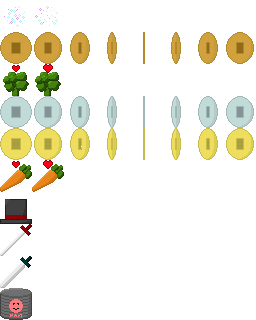
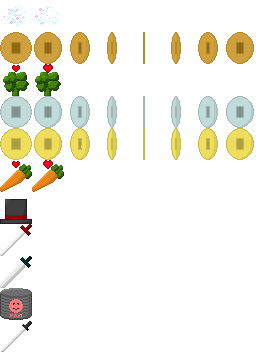
Swords in stones. Still needs refinement, but you get the idea. Fixes issue 9.

diff --git a/lib/mid/env.c b/lib/mid/env.c
@@ -1,6 +1,7 @@
 // Copyright © 2011 Steve McCoy and Ethan Burns
 // Licensed under the MIT License. See LICENSE for details.
 #include "../../include/mid.h"
+#include "../../include/rng.h"
 #include <assert.h>
 
 typedef struct EnvOps EnvOps;
@@ -13,6 +14,13 @@ struct EnvOps{
 
 static void shremptyact(Env*,Player*,Zone*);
 static void shrusedact(Env*,Player*,Zone*);
+static void stonehpact(Env*,Player*,Zone*);
+static void stonedexact(Env*,Player*,Zone*);
+static void stonestract(Env*,Player*,Zone*);
+
+static void stonegenact(Env *e, Player *p, Zone *z, int stat, ItemID *drops, int dsz);
+
+static Rng rng;
 
 static EnvOps ops[] = {
 	[EnvShrempty] = {
@@ -27,6 +35,24 @@ static EnvOps ops[] = {
 		{ 32, 64 },
 		{ .row = 1, .len = 1, .delay = 1, .w = 32, .h = 64, .d = 1 }
 	},
+	[EnvSwdStoneHp] = {
+		"img/swstones.png",
+		stonehpact,
+		{ 32, 32 },
+		{ .row = 0, .len = 1, .delay = 1, .w = 32, .h = 32, .d = 1 }
+	},
+	[EnvSwdStoneDex] = {
+		"img/swstones.png",
+		stonedexact,
+		{ 32, 32 },
+		{ .row = 1, .len = 1, .delay = 1, .w = 32, .h = 32, .d = 1 }
+	},
+	[EnvSwdStoneStr] = {
+		"img/swstones.png",
+		stonestract,
+		{ 32, 32 },
+		{ .row = 2, .len = 1, .delay = 1, .w = 32, .h = 32, .d = 1 }
+	},
 };
 
 _Bool envinit(Env *e, EnvID id, Point p){
@@ -36,6 +62,8 @@ _Bool envinit(Env *e, EnvID id, Point p){
 	bodyinit(&e->body, p.x * Twidth, p.y * Theight, Twidth, Theight);
 	e->body.bbox.b.x = e->body.bbox.a.x + ops[id].wh.x;
 	e->body.bbox.b.y = e->body.bbox.a.y + ops[id].wh.y;
+
+	e->min = rngintincl(&rng, 5, 30);
 
 	return 1;
 }
@@ -50,15 +78,16 @@ _Bool envldresrc(void){
 			return 0;
 		ops[id].anim.sheet = i;
 	}
+	rnginit(&rng, 666);
 	return 1;
 }
 
 _Bool envprint(char *buf, size_t sz, Env *env){
-	return printgeom(buf, sz, "dyb", env->id, env->body, env->gotit);
+	return printgeom(buf, sz, "dybd", env->id, env->body, env->gotit, env->min);
 }
 
 _Bool envscan(char *buf, Env *env){
-	return scangeom(buf, "dyb", &env->id, &env->body, &env->gotit);
+	return scangeom(buf, "dybd", &env->id, &env->body, &env->gotit, &env->min);
 }
 
 Point envsize(EnvID id){
@@ -89,4 +118,43 @@ static void shremptyact(Env *e, Player *p, Zone *z){
 
 static void shrusedact(Env *e, Player *p, Zone *z){
 	// nothing
+}
+
+static void stonehpact(Env *e, Player *p, Zone *z){
+	static ItemID hpswds[] = {
+		ItemSilverSwd,
+	};
+
+	stonegenact(e, p, z, StatHp, hpswds, sizeof(hpswds)/sizeof(hpswds[0]));
+}
+
+static void stonedexact(Env *e, Player *p, Zone *z){
+	static ItemID dexswds[] = {
+		ItemWindSwd,
+	};
+
+	stonegenact(e, p, z, StatDex, dexswds, sizeof(dexswds)/sizeof(dexswds[0]));
+}
+
+static void stonestract(Env *e, Player *p, Zone *z){
+	static ItemID strswds[] = {
+		ItemSilverSwd,
+	};
+
+	stonegenact(e, p, z, StatStr, strswds, sizeof(strswds)/sizeof(strswds[0]));
+}
+
+static void stonegenact(Env *e, Player *p, Zone *z, int stat, ItemID *drops, int dsz){
+	if(p->stats[stat] >= e->min && isect(e->body.bbox, p->body.bbox)){
+		ItemID id = drops[rngintincl(&rng, 0, dsz - 1)];
+		Item drop = {};
+		Point gridcoord = { // BARF
+			e->body.bbox.a.x / Twidth,
+			e->body.bbox.a.y / Theight
+		};
+		iteminit(&drop, id, gridcoord);
+		drop.body.vel.y = -8;
+		if(zoneadditem(z, z->lvl->z, drop))
+			*e = (Env){};
+	}
 }

diff --git a/cmd/mid/zone.c b/cmd/mid/zone.c
@@ -149,6 +149,9 @@ static FILE *zpipe(Rng *r)
 	pipeadd(&p, "itmgen", "-s %u 3 3 3 3 6 10", rngint(r));
 	pipeadd(&p, "itmgen", "-s %u 7 10", rngint(r));
 	pipeadd(&p, "envgen", "-s %u 1 1", rngint(r));
+	pipeadd(&p, "envgen", "-s %u 3 1", rngint(r));
+	pipeadd(&p, "envgen", "-s %u 4 1", rngint(r));
+	pipeadd(&p, "envgen", "-s %u 5 1", rngint(r));
 	pipeadd(&p, "enmgen", "-s %u 1 1 1 2 2 2 2 3 3 4 5 50", rngint(r));
 
 	char adc[256];

diff --git a/include/mid.h b/include/mid.h
@@ -406,6 +406,7 @@ enum ItemID{
 	ItemTopHat,
 	ItemSilverSwd,
 	ItemBroadSwd,
+	ItemWindSwd,
 	ItemMax
 };
 
@@ -523,6 +524,9 @@ enum EnvID{
 	EnvNone,
 	EnvShrempty,
 	EnvShrused,
+	EnvSwdStoneHp,
+	EnvSwdStoneDex,
+	EnvSwdStoneStr,
 	EnvMax
 };
 
@@ -531,6 +535,7 @@ struct Env{
 	EnvID id;
 	Body body;
 	_Bool gotit;
+	int min;
 };
 
 _Bool envldresrc(void);

diff --git a/lib/mid/item.c b/lib/mid/item.c
@@ -105,6 +105,15 @@ static ItemOps ops[] = {
 		.stats = { 0, 0, 3 },
 		.loc = EqpWep
 	},
+	[ItemWindSwd] = {
+		"Kaze",
+		"img/items.png",
+		silverswdupdate,
+		NULL,
+		{ .row = 10, .len = 1, .delay = 1, .w = 32, .h = 32, .d = 1 },
+		.stats = { 0, 1, 2 },
+		.loc = EqpWep
+	},
 };
 
 _Bool iteminit(Item *i, ItemID id, Point p){

diff --git a/lib/mid/lvl.c b/lib/mid/lvl.c
@@ -174,7 +174,7 @@ Lvl *lvlread(FILE *f)
 {
 	int w, h, d, seenz;
 	if (fscanf(f, " %d %d %d %d",&d, &w, &h, &seenz) != 4) {
-		seterrstr("Invalid lvl header");
+		seterrstr("Invalid lvl header: w = %d, h = %d, d = %d, seenz = %d, feof = %d, ferror = %d", feof(f), ferror(f));
 		return NULL;
 	}
 	Lvl *l = lvlnew(d, w, h, seenz);
